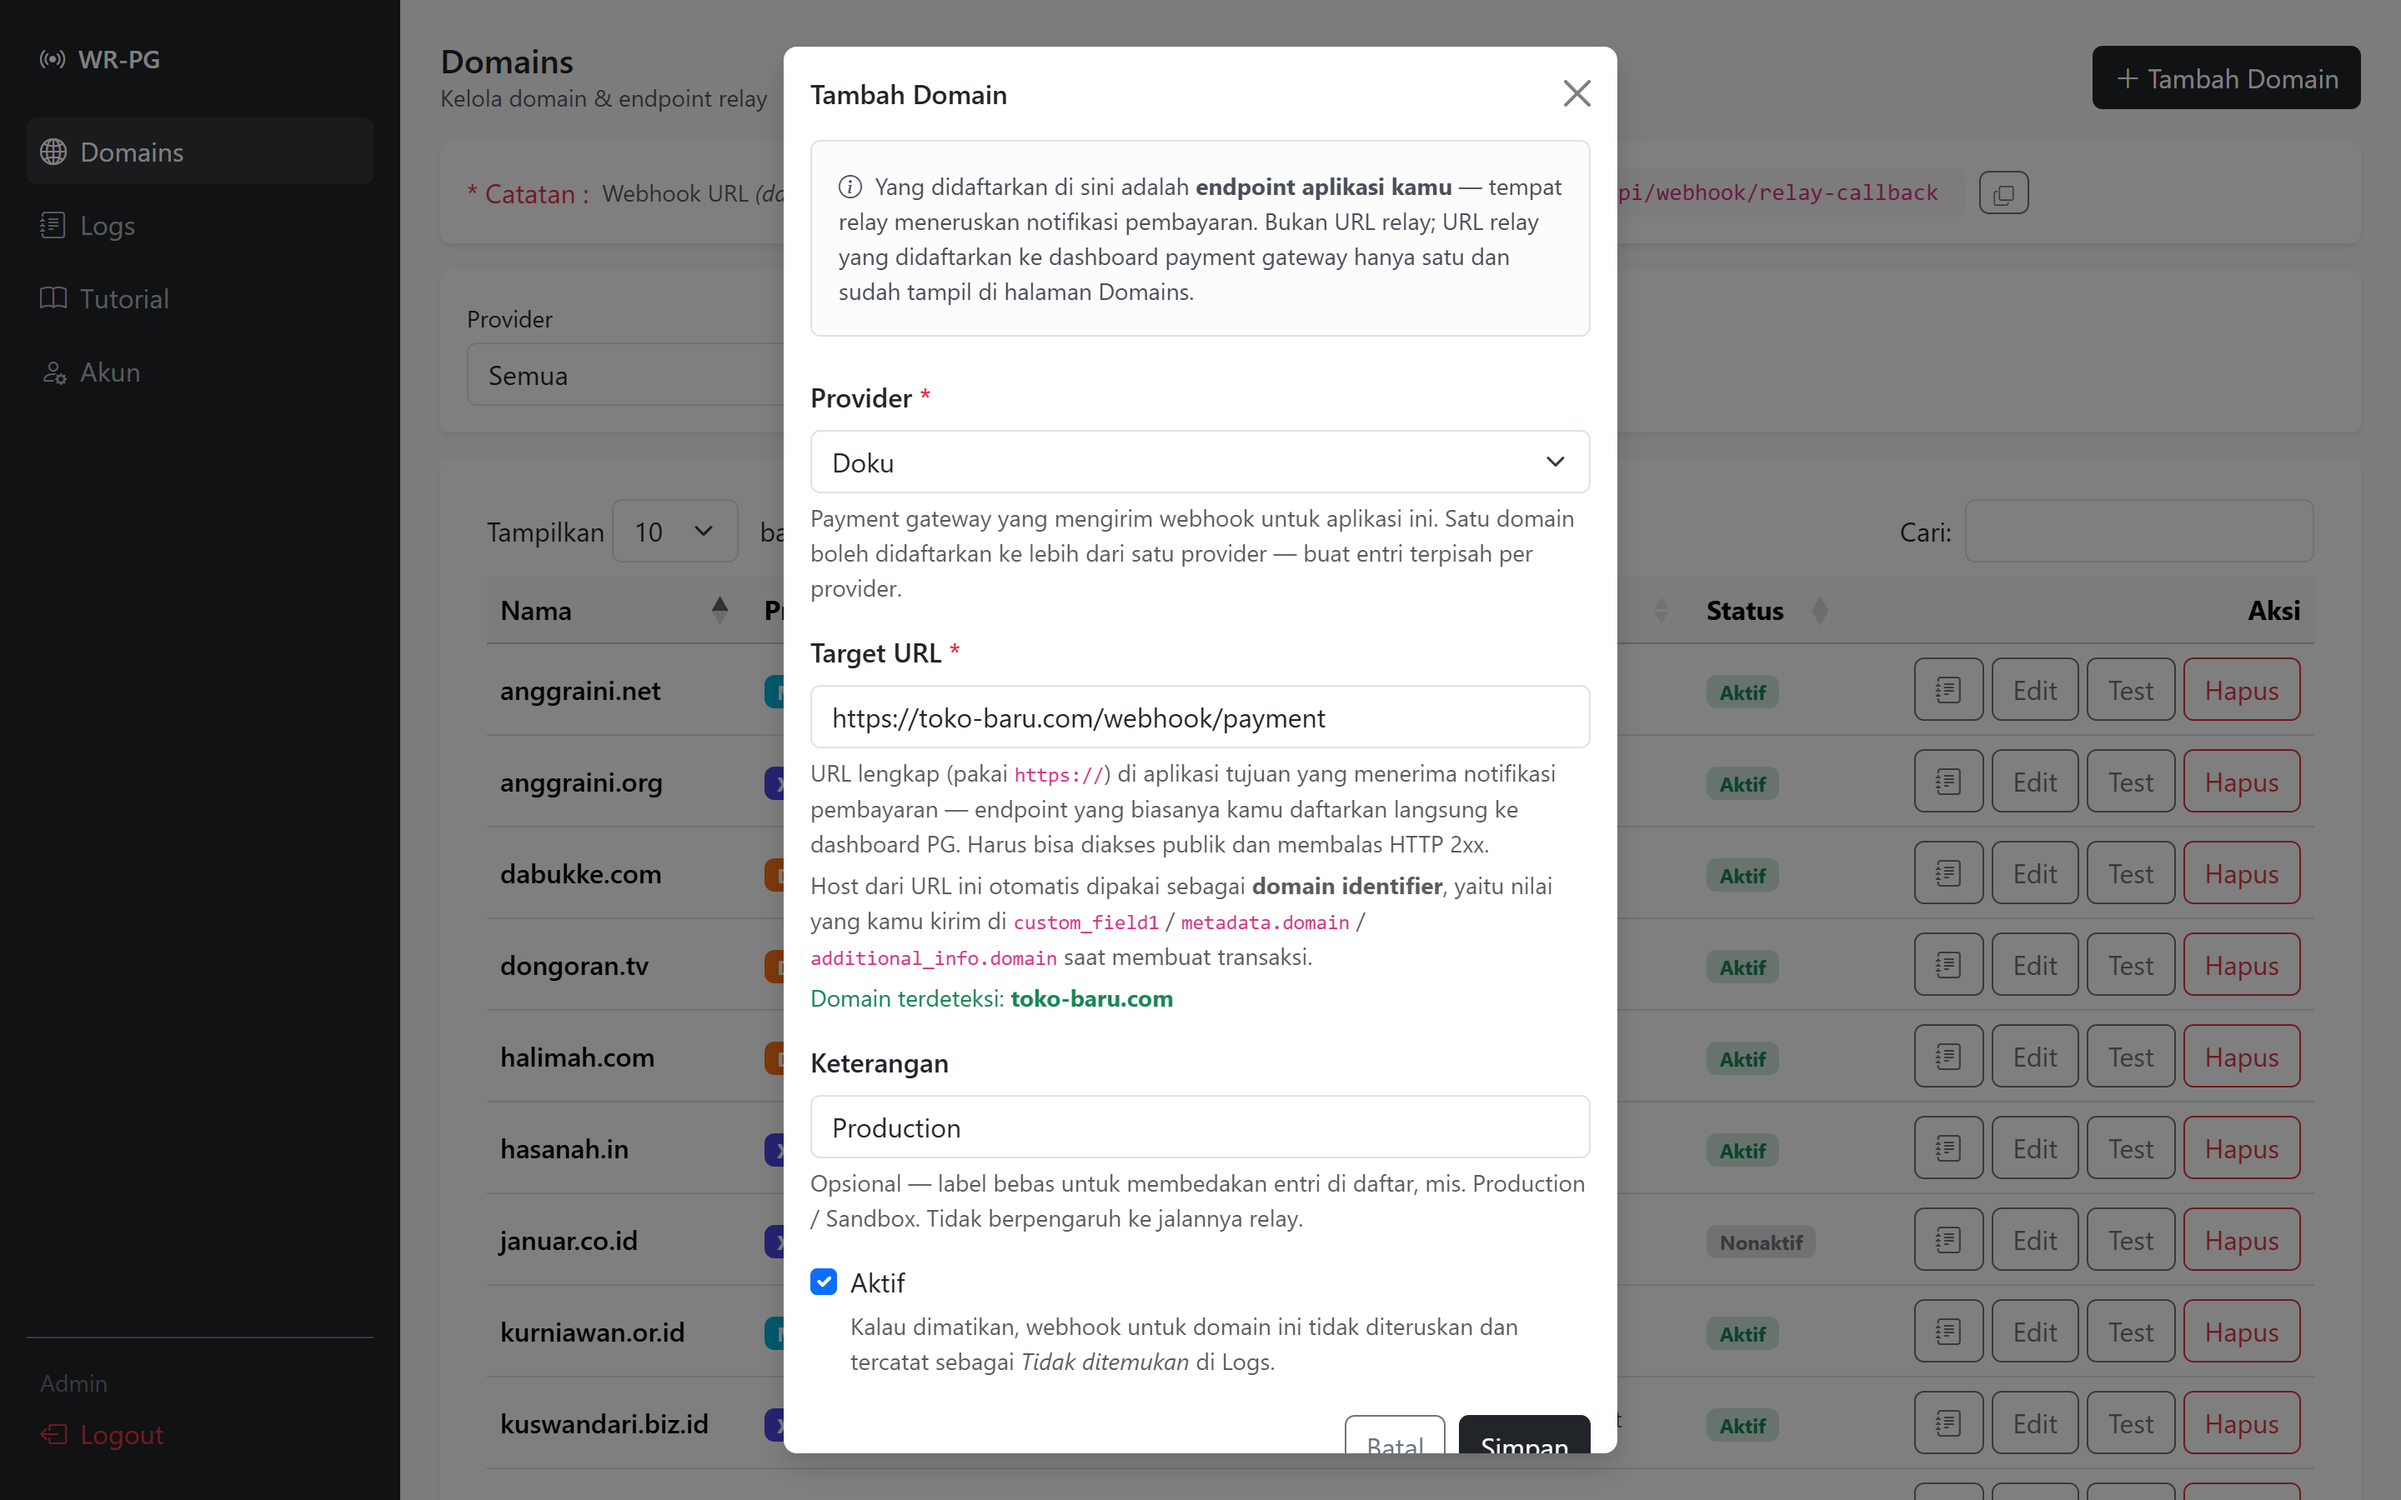
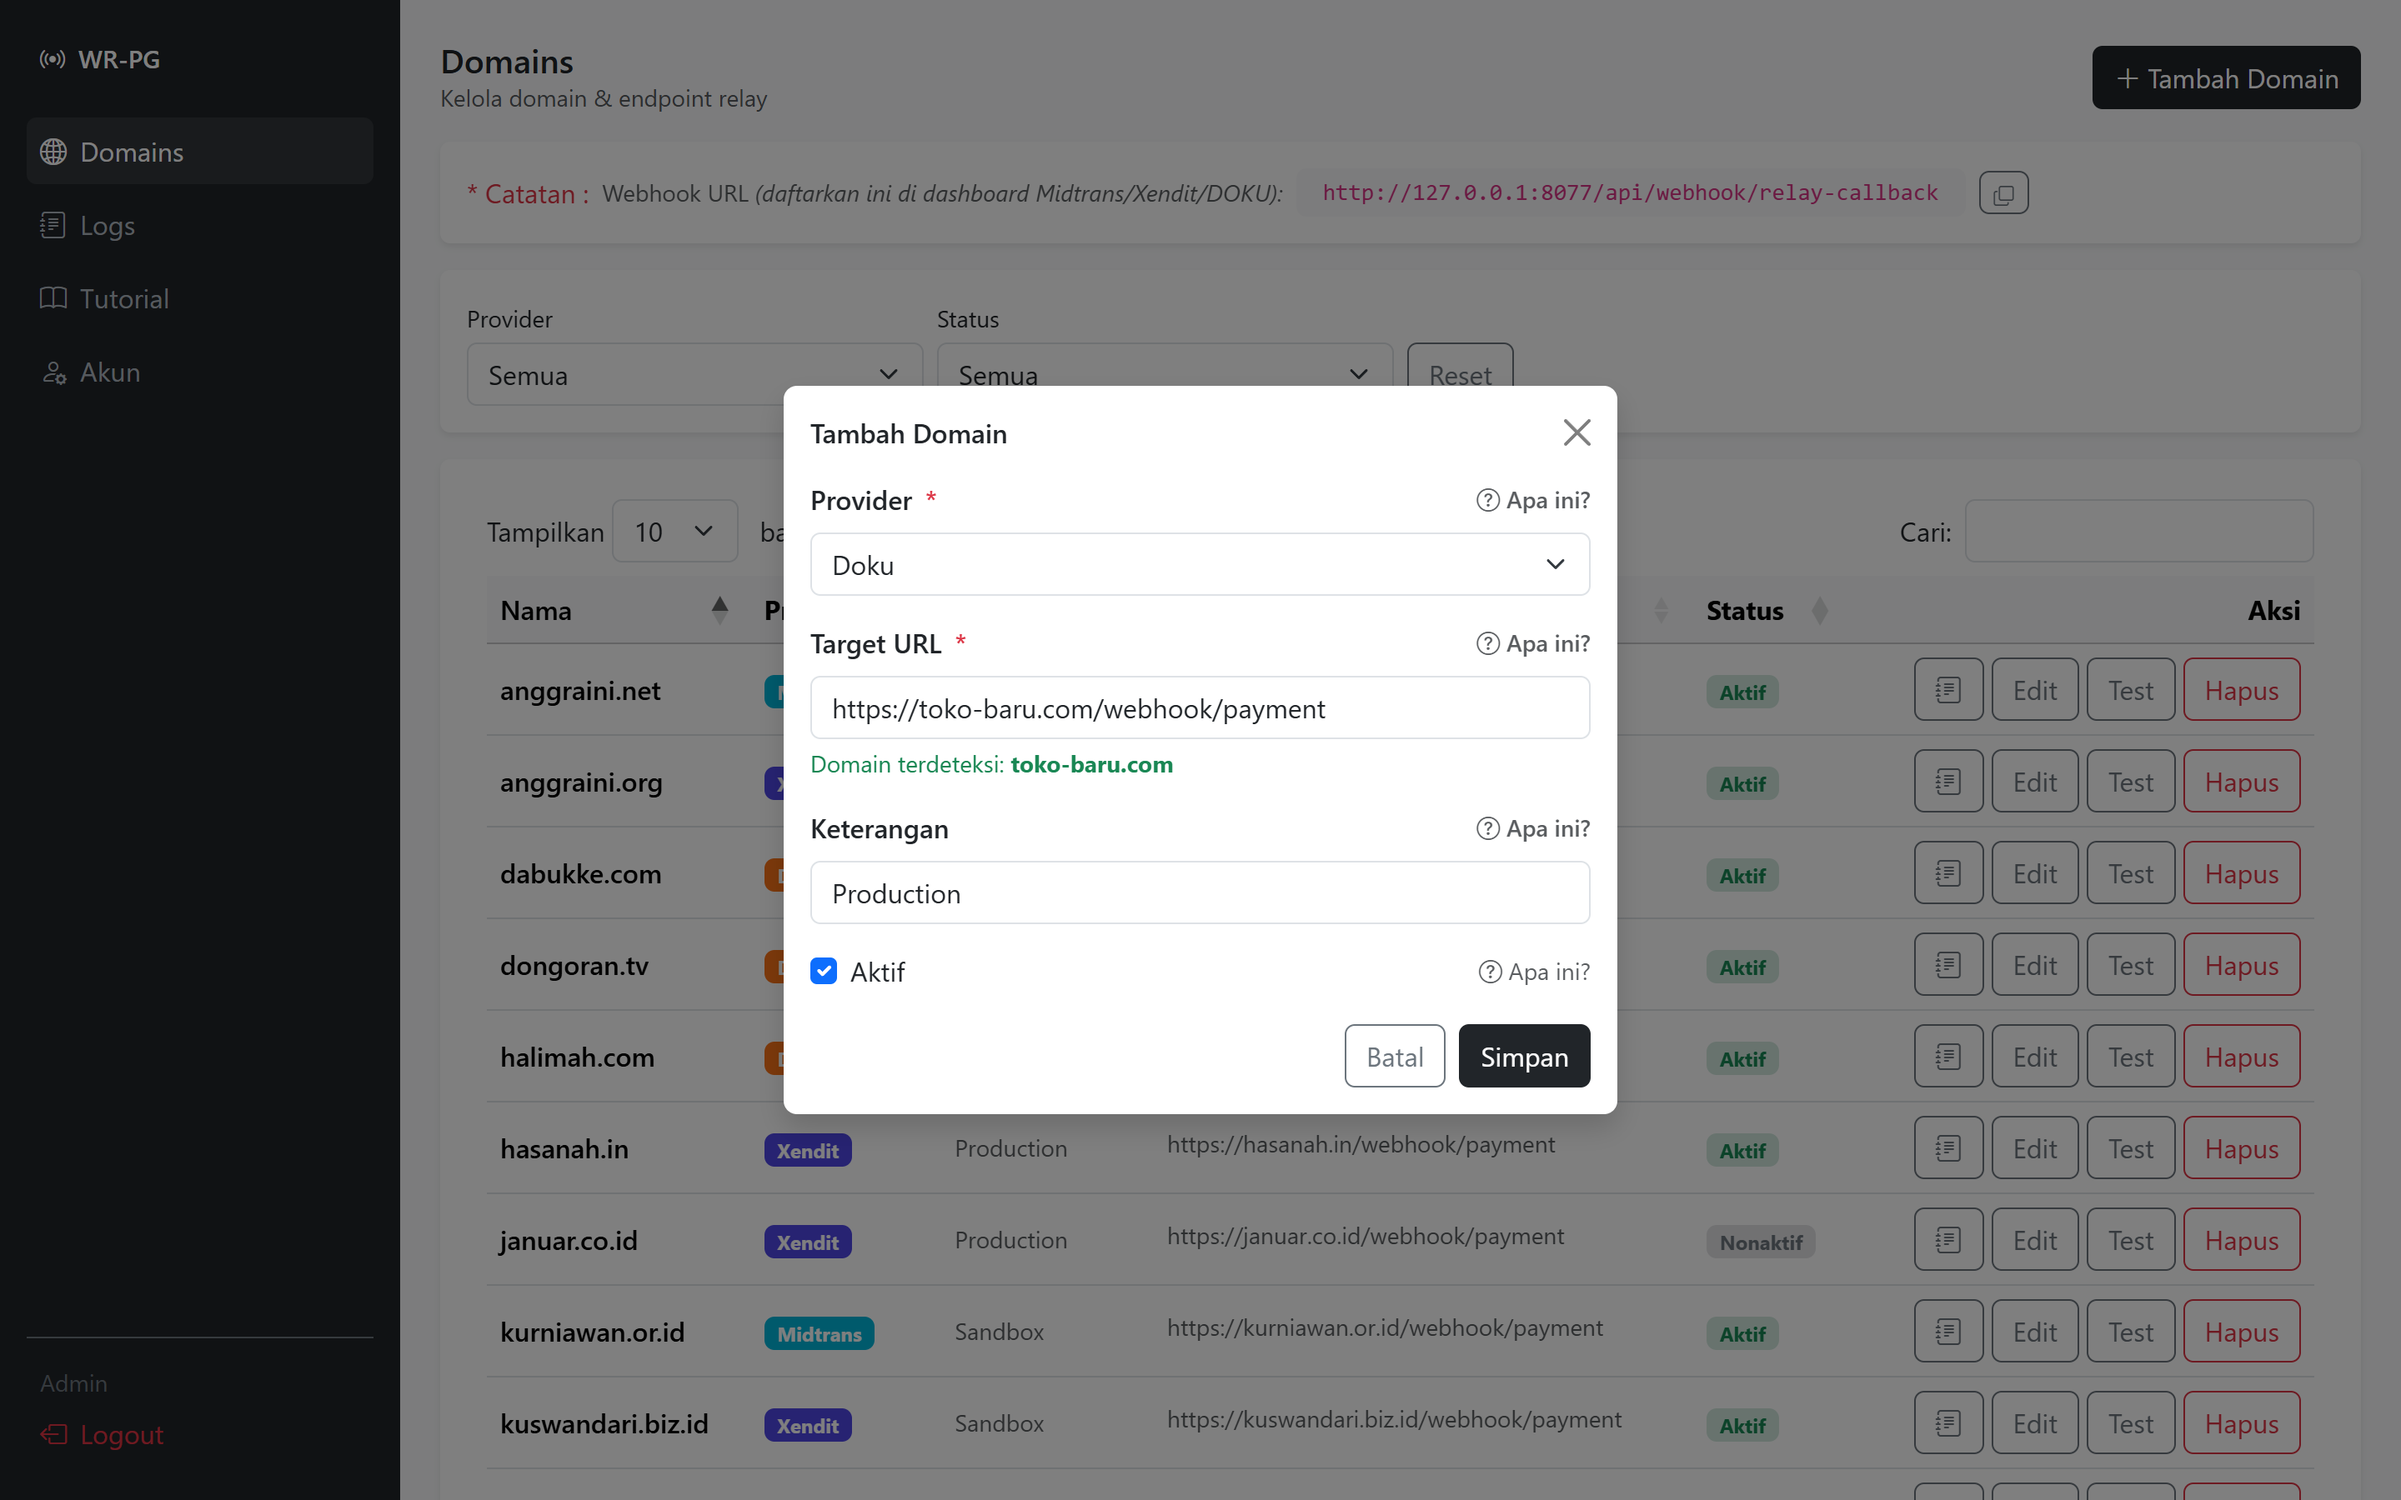
feat(domains): keterangan field jadi gaya FAQ, default tertutup
Modal tambah/edit sebelumnya menampilkan seluruh penjelasan sekaligus,
sehingga form yang isinya cuma tiga field jadi panjang dan ramai.
Sekarang tiap field punya tautan "Apa ini?" yang membuka keterangannya
sendiri; semuanya tertutup saat modal dibuka, termasuk saat dibuka ulang
untuk edit.

Changed region(s): [[0.3125, 0.0311, 0.6875, 0.9956], [0.625, 0.6222, 0.6562, 0.6533], [0.625, 0.4044, 0.6562, 0.4356]]

diff --git a/resources/views/panel/domains/index.blade.php b/resources/views/panel/domains/index.blade.php
@@ -84,61 +84,91 @@
                 <div class="modal-body">
                     <input type="hidden" name="id" id="f-id">
 
-                    <div class="alert alert-light border small mb-4">
-                        <i class="bi bi-info-circle me-1"></i>
-                        Yang didaftarkan di sini adalah <strong>endpoint aplikasi kamu</strong> — tempat relay
-                        meneruskan notifikasi pembayaran. Bukan URL relay; URL relay yang didaftarkan ke
-                        dashboard payment gateway hanya satu dan sudah tampil di halaman Domains.
-                    </div>
-
+                    {{-- Keterangan gaya FAQ: default tertutup, dibuka per field --}}
                     <div class="mb-3">
-                        <label class="form-label fw-medium">Provider <span class="text-danger">*</span></label>
+                        <label class="form-label fw-medium d-flex align-items-center gap-2">
+                            Provider <span class="text-danger">*</span>
+                            <a class="ms-auto small text-decoration-none text-muted" data-bs-toggle="collapse"
+                               href="#help-provider" role="button" aria-expanded="false" aria-controls="help-provider">
+                                <i class="bi bi-question-circle"></i> Apa ini?
+                            </a>
+                        </label>
+                        <div class="collapse" id="help-provider">
+                            <div class="border rounded bg-light-subtle p-2 mb-2 small text-muted">
+                                Payment gateway yang mengirim webhook untuk aplikasi ini. Satu domain boleh
+                                didaftarkan ke lebih dari satu provider — buat entri terpisah per provider.
+                            </div>
+                        </div>
                         <select name="provider" id="fm-provider" class="form-select">
                             <option value="">-- Pilih provider --</option>
                             @foreach(\App\Models\Domain::PROVIDERS as $p)
                                 <option value="{{ $p }}">{{ ucfirst($p) }}</option>
                             @endforeach
                         </select>
-                        <div class="form-text text-muted">
-                            Payment gateway yang mengirim webhook untuk aplikasi ini. Satu domain boleh
-                            didaftarkan ke lebih dari satu provider — buat entri terpisah per provider.
-                        </div>
                         <div class="invalid-feedback" data-error="provider"></div>
                     </div>
 
                     <div class="mb-3">
-                        <label class="form-label fw-medium">Target URL <span class="text-danger">*</span></label>
+                        <label class="form-label fw-medium d-flex align-items-center gap-2">
+                            Target URL <span class="text-danger">*</span>
+                            <a class="ms-auto small text-decoration-none text-muted" data-bs-toggle="collapse"
+                               href="#help-target" role="button" aria-expanded="false" aria-controls="help-target">
+                                <i class="bi bi-question-circle"></i> Apa ini?
+                            </a>
+                        </label>
+                        <div class="collapse" id="help-target">
+                            <div class="border rounded bg-light-subtle p-2 mb-2 small text-muted">
+                                Yang didaftarkan di sini adalah <strong>endpoint aplikasi kamu</strong> — tempat
+                                relay meneruskan notifikasi pembayaran, bukan URL relay. URL relay hanya satu
+                                dan sudah tampil di halaman Domains.
+                                <span class="d-block mt-2">
+                                    Isi URL lengkap (pakai <code>https://</code>) endpoint yang biasanya kamu
+                                    daftarkan langsung ke dashboard PG. Harus bisa diakses publik dan membalas HTTP 2xx.
+                                </span>
+                                <span class="d-block mt-2">
+                                    Host dari URL ini otomatis dipakai sebagai <strong>domain identifier</strong>,
+                                    yaitu nilai yang kamu kirim di <code>custom_field1</code> /
+                                    <code>metadata.domain</code> / <code>additional_info.domain</code> saat membuat transaksi.
+                                </span>
+                            </div>
+                        </div>
                         <input type="url" name="target_url" id="fm-target_url" class="form-control"
                                placeholder="https://toko-a.com/api/payment/callback">
-                        <div class="form-text text-muted">
-                            URL lengkap (pakai <code>https://</code>) di aplikasi tujuan yang menerima
-                            notifikasi pembayaran — endpoint yang biasanya kamu daftarkan langsung ke
-                            dashboard PG. Harus bisa diakses publik dan membalas HTTP 2xx.
-                            <span class="d-block mt-1">
-                                Host dari URL ini otomatis dipakai sebagai <strong>domain identifier</strong>,
-                                yaitu nilai yang kamu kirim di <code>custom_field1</code> /
-                                <code>metadata.domain</code> / <code>additional_info.domain</code> saat membuat transaksi.
-                            </span>
-                        </div>
                         <div id="domain-preview" class="form-text"></div>
                         <div class="invalid-feedback" data-error="target_url"></div>
                     </div>
 
                     <div class="mb-3">
-                        <label class="form-label fw-medium">Keterangan</label>
+                        <label class="form-label fw-medium d-flex align-items-center gap-2">
+                            Keterangan
+                            <a class="ms-auto small text-decoration-none text-muted" data-bs-toggle="collapse"
+                               href="#help-notes" role="button" aria-expanded="false" aria-controls="help-notes">
+                                <i class="bi bi-question-circle"></i> Apa ini?
+                            </a>
+                        </label>
+                        <div class="collapse" id="help-notes">
+                            <div class="border rounded bg-light-subtle p-2 mb-2 small text-muted">
+                                Opsional — label bebas untuk membedakan entri di daftar, mis. Production /
+                                Sandbox. Tidak berpengaruh ke jalannya relay.
+                            </div>
+                        </div>
                         <input type="text" name="notes" id="fm-notes" class="form-control"
                                placeholder="Contoh: Production, Local Test, Sandbox, dll">
-                        <div class="form-text text-muted">
-                            Opsional — label bebas untuk membedakan entri di daftar, mis. Production /
-                            Sandbox. Tidak berpengaruh ke jalannya relay.
-                        </div>
                         <div class="invalid-feedback" data-error="notes"></div>
                     </div>
 
-                    <div class="form-check">
-                        <input type="checkbox" class="form-check-input" name="is_active" id="fm-is_active" checked>
-                        <label class="form-check-label" for="fm-is_active">Aktif</label>
-                        <div class="form-text text-muted">
+                    <div class="d-flex align-items-center gap-2">
+                        <div class="form-check mb-0">
+                            <input type="checkbox" class="form-check-input" name="is_active" id="fm-is_active" checked>
+                            <label class="form-check-label" for="fm-is_active">Aktif</label>
+                        </div>
+                        <a class="ms-auto small text-decoration-none text-muted" data-bs-toggle="collapse"
+                           href="#help-active" role="button" aria-expanded="false" aria-controls="help-active">
+                            <i class="bi bi-question-circle"></i> Apa ini?
+                        </a>
+                    </div>
+                    <div class="collapse" id="help-active">
+                        <div class="border rounded bg-light-subtle p-2 mt-2 small text-muted">
                             Kalau dimatikan, webhook untuk domain ini tidak diteruskan dan tercatat
                             sebagai <em>Tidak ditemukan</em> di Logs.
                         </div>
@@ -243,6 +273,12 @@ $(function () {
         $('#domain-form [data-error]').text('');
     }
 
+    // Keterangan "Apa ini?" selalu kembali tertutup tiap modal dibuka
+    function collapseHelp() {
+        $('#domainModal .collapse').removeClass('show');
+        $('#domainModal [data-bs-toggle="collapse"]').attr('aria-expanded', 'false');
+    }
+
     function showErrors(errors) {
         clearErrors();
         Object.keys(errors || {}).forEach(function (field) {
@@ -269,6 +305,7 @@ $(function () {
     // ---- Create ----
     $('#btn-create').on('click', function () {
         clearErrors();
+        collapseHelp();
         $('#domain-form')[0].reset();
         $('#f-id').val('');
         $('#fm-is_active').prop('checked', true);
@@ -282,6 +319,7 @@ $(function () {
     $('#tbl-domains').on('click', '.btn-edit', function () {
         const id = $(this).data('id');
         clearErrors();
+        collapseHelp();
         $.getJSON('{{ url('panel/domains') }}/' + id, function (d) {
             $('#f-id').val(d.id);
             $('#fm-provider').val(d.provider);
